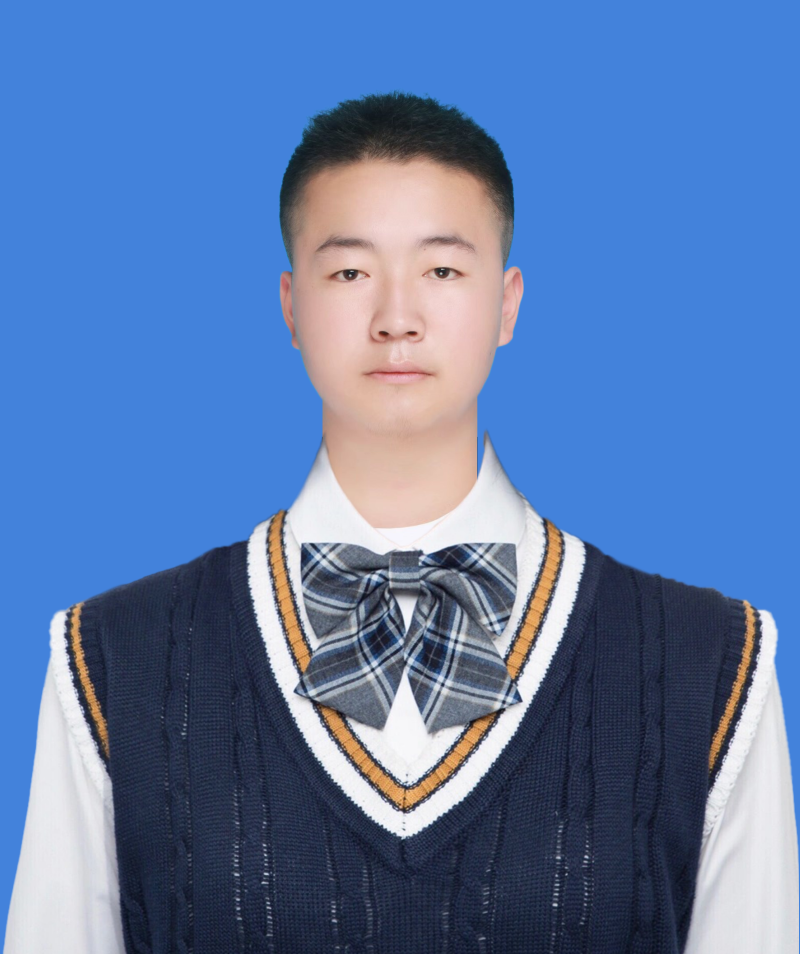
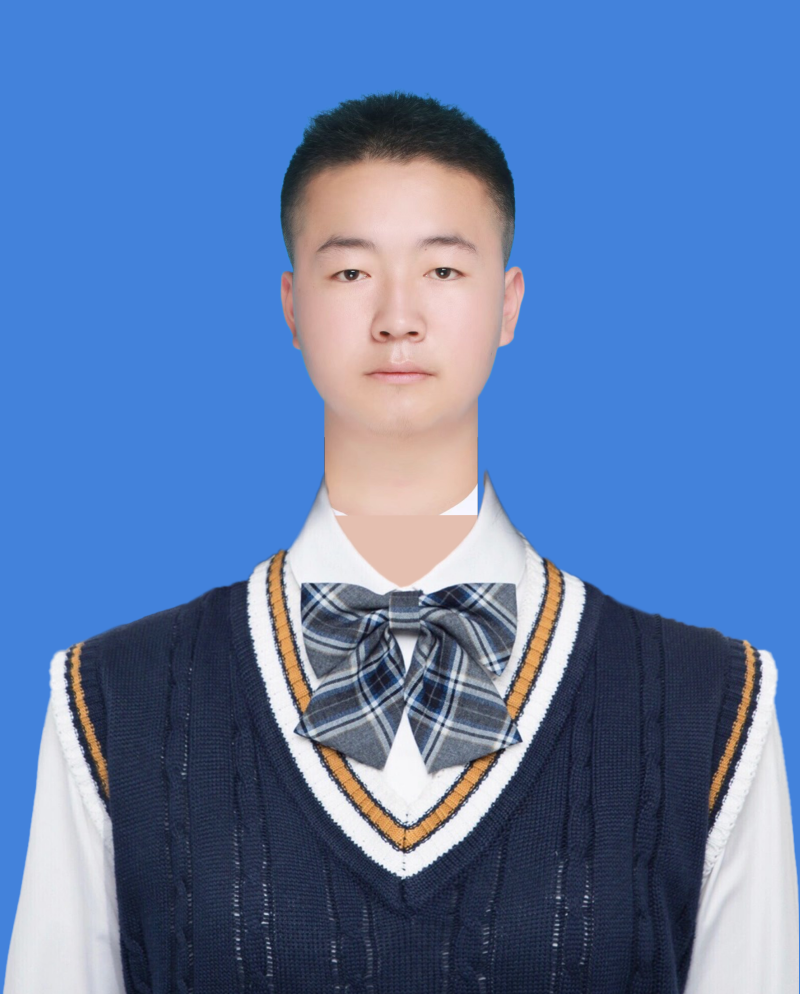
make_ids: \u8131\u5b50\u5ef6\u957f + \u9632\u6b62\u539f\u56fe T \u6064\u8863\u9886\u6cc4\u9732
\u7528\u6237\u8981\u6c42\u8131\u5b50\u53ef\u89c1\u90e8\u5206\u66f4\u957f\uff0c\u5728\u4e0d\u5f71\u54cd\u73b0\u6709\u6548\u679c\u7684\u57fa\u7840\u4e0a\u3002

\u51e0\u4f55\u53c2\u6570\u8c03\u6574\uff1a
  NECK_VISIBLE_TO_JAW_RATIO  0.70 \u2192 0.95   (\u8131\u5b50\u53ef\u89c1\u9ad8\u5ea6\u591a 36%)
  NECK_DEPTH_FRAC            1.10 \u2192 1.50   (polygon \u540c\u6b65\u52a0\u957f\uff0c\u7ed9\u8863\u9886\u906e\u4f4f\u9884\u7559 buffer)
  NECK_DRAWING_PAD_FACTOR    1.5  \u2192 2.0    (\u9876\u90e8 padding \u4fdd\u8bc1\u8131\u5b50\u753b\u5e03\u7a7a\u95f4\u8db3)

\u65b0\u589e CLI \u53c2\u6570 --neck-visible \u8ba9\u7528\u6237\u80fd\u8fd0\u884c\u65f6\u8c03\uff1a
  python3 make_ids.py ... --neck-visible 1.20    (\u8131\u5b50\u66f4\u957f)
  python3 make_ids.py ... --neck-visible 0.60    (\u8131\u5b50\u66f4\u77ed)

\u91cd\u70b9\u4fee\u590d\uff1a\u9632\u6b62\u539f\u56fe T \u6064/\u8863\u9886\u6cc4\u9732
  \u95ee\u9898\uff1aimagev3 \u4e2d\u8131\u5b50\u53ea\u4ece chin \u5230 chin+0.5\u00d7jaw_span\u662f\u771f\u5b9e\u8131\u5b50\uff0c
  \u4e4b\u540e\u662f T \u6064\u8863\u9886\u3002visible_ratio=0.95 \u8ba9 polygon \u8986\u76d6\u5230 chin+1.05\u00d7jaw_span\uff0c
  warp \u4f1a\u628a T \u6064\u4e2d\u7684\u767d\u8272\u5e26\u5230 head \u4e0a\uff0cV \u9886\u5f00\u53e3\u4e0b\u770b\u5230\u6dfa\u8272\u5757\u3002

  \u4fee\u590d\uff1a\u65b0\u589e _flatten_source_neck_below()
  \u5728 affine warp \u4e4b\u524d\uff0c\u5148\u628a source \u56fe\u4e2d chin+0.50\u00d7source_jaw_span \u4ee5\u4e0b
[…]

diff --git a/neck/make_ids.py b/neck/make_ids.py
@@ -37,14 +37,14 @@ class MakeIDPhoto:
     # ============ 脖子几何参数（经验值）============
     NECK_TOP_INSET = 0.95        # 脖子顶宽 / 下颌宽（接近 1 = 几乎=下颌宽）
     NECK_BOTTOM_FLARE = 1.0      # 脖子底宽 / 顶宽（不外扩）
-    NECK_DEPTH_FRAC = 1.10       # 脖子高度 = jaw_span × 此值
+    NECK_DEPTH_FRAC = 1.50       # 脖子 polygon 高度 = jaw_span × 此值（要 ≥ visible+buffer）
     CHIN_OVERLAP_FRAC = 0.06     # 脖子上沿向上插入下巴的距离 / jaw_span
-    NECK_DRAWING_PAD_FACTOR = 1.5  # 加脖子前底部预留 padding = jaw_span × 此值
+    NECK_DRAWING_PAD_FACTOR = 2.0  # 加脖子前底部预留 padding = jaw_span × 此值（≥ NECK_DEPTH_FRAC）
 
     # ============ 衣服 / 画布几何参数（经验值）============
     HEAD_JAW_TO_CANVAS_RATIO = 0.20   # canvas 上 scaled_jaw_span / canvas_w
     HEAD_TOP_MARGIN_RATIO = 0.11      # 头顶 margin / canvas_w
-    NECK_VISIBLE_TO_JAW_RATIO = 0.70  # 脖子可见高度 / scaled_jaw_span
+    NECK_VISIBLE_TO_JAW_RATIO = 0.95  # 脖子可见高度 / scaled_jaw_span（0.70→0.95 让脖子更长）
     CLOTHES_VNECK_X_FRAC = 0.50       # 衣服 V 领 fallback x 位置 / clothes_w
     CLOTHES_VNECK_Y_FRAC = 0.18       # 衣服 V 领 fallback y 位置 / clothes_h
 
@@ -64,6 +64,7 @@ class MakeIDPhoto:
         clothes_path: str,
         output_path: str,
         bg_hex: str = DEFAULT_BG_HEX,
+        neck_visible_ratio: Optional[float] = None,
     ):
         """
         :param head_path: 抠图头像路径（RGBA PNG，背景透明）
@@ -71,12 +72,18 @@ class MakeIDPhoto:
         :param clothes_path: 衣服模板路径（RGBA PNG，衣服外背景透明）
         :param output_path: 输出证件照路径
         :param bg_hex: 16 进制底色，支持 '#RGB' / '#RRGGBB' / 'RRGGBB' / '0xRRGGBB'
+        :param neck_visible_ratio: 脖子可见高度 / scaled_jaw_span，覆盖默认值 0.95；
+            想脖子更长传 1.10~1.30，更短传 0.60~0.80。None=用默认。
         """
         self.head_path = head_path
         self.source_path = source_path
         self.clothes_path = clothes_path
         self.output_path = output_path
         self.bg_bgr = self._hex_to_bgr(bg_hex)
+        if neck_visible_ratio is not None:
+            self.neck_visible_ratio = float(np.clip(neck_visible_ratio, 0.30, 1.80))
+        else:
+            self.neck_visible_ratio = self.NECK_VISIBLE_TO_JAW_RATIO
 
     # =================================================================================
     # 主流程
@@ -117,6 +124,53 @@ class MakeIDPhoto:
     # 核心方法 1：加脖子（affine warp 原图脖子像素到头像坐标系）
     # =================================================================================
 
+    # 在 warp 前要把 source 真实脖子之下（衣领 / T 恤等非肤色区）替换为脖子 mean 色，
+    # 避免 transplant 把白衣领等非脖子内容拷到头像上。
+    SOURCE_REAL_NECK_TOP_FRAC = 0.10   # 真实脖子起始 y = source_chin + 0.10 × source_jaw_span
+    SOURCE_REAL_NECK_BOT_FRAC = 0.45   # 真实脖子结束 y = source_chin + 0.45 × source_jaw_span
+    SOURCE_REAL_NECK_HALF_W_FRAC = 0.18  # 真实脖子半宽（两侧避开下颌阴影 / 衣领边缘）
+    SOURCE_NECK_MEAN_CUTOFF_FRAC = 0.50  # 在 source_chin + 0.50 × source_jaw_span 之下用脖子 mean 色填充
+
+    @classmethod
+    def _flatten_source_neck_below(cls, source_bgra: np.ndarray, source_face) -> np.ndarray:
+        """
+        把 source 图中「真实脖子区域之下」的所有内容替换为脖子 mean BGR。
+        这样后续 warp 时 polygon 下半段仍是脖子色，不会带进 T 恤 / 衣领等非肤色内容。
+        """
+        h, w = source_bgra.shape[:2]
+        lm = source_face.landmark
+        chin = cls._landmark_xy(lm[cls.LANDMARK_CHIN], w, h)
+        jl = cls._landmark_xy(lm[cls.LANDMARK_LEFT_JAW], w, h)
+        jr = cls._landmark_xy(lm[cls.LANDMARK_RIGHT_JAW], w, h)
+        jaw_span = float(np.hypot(jl[0] - jr[0], jl[1] - jr[1]))
+        if jaw_span < 12.0:
+            return source_bgra
+
+        # 真实脖子 ROI（取真实脖子核心区中位 BGR）
+        y_top = int(np.clip(chin[1] + jaw_span * cls.SOURCE_REAL_NECK_TOP_FRAC, 0, h))
+        y_bot = int(np.clip(chin[1] + jaw_span * cls.SOURCE_REAL_NECK_BOT_FRAC, 0, h))
+        half_w = int(jaw_span * cls.SOURCE_REAL_NECK_HALF_W_FRAC)
+        x_lo = int(np.clip(chin[0] - half_w, 0, w))
+        x_hi = int(np.clip(chin[0] + half_w, 0, w))
+        if y_bot <= y_top + 4 or x_hi <= x_lo + 4:
+            return source_bgra
+        roi = source_bgra[y_top:y_bot, x_lo:x_hi]
+        am = roi[:, :, 3] > 40
+        if not np.any(am):
+            return source_bgra
+        # 用 alpha>40 像素的 BGR 中位数作为脖子色
+        neck_mean = np.median(roi[:, :, :3][am], axis=0).astype(np.uint8)
+
+        # 在 chin + 0.50 × jaw_span 以下区域全部替换为脖子 mean BGR
+        out = source_bgra.copy()
+        cutoff_y = int(np.clip(chin[1] + jaw_span * cls.SOURCE_NECK_MEAN_CUTOFF_FRAC, 0, h))
+        if cutoff_y < h:
+            # 只动 BGR 通道，alpha 保持原样
+            out[cutoff_y:, :, 0] = int(neck_mean[0])
+            out[cutoff_y:, :, 1] = int(neck_mean[1])
+            out[cutoff_y:, :, 2] = int(neck_mean[2])
+        return out
+
     def _add_neck(
         self,
         head_bgra: np.ndarray,
@@ -126,13 +180,18 @@ class MakeIDPhoto:
     ) -> np.ndarray:
         """
         在头像下方加真实脖子：
+          0. 把 source 图中真实脖子之下的非肤色区域（T 恤 / 衣领等）替换为脖子 mean 色
+             —— 避免 warp 后把这些内容带到头像上
           1. 头像和原图各自检测的下颌三点构造 affine 变换
-          2. 把原图整体 warp 到头像坐标系
+          2. 把（处理过的）原图整体 warp 到头像坐标系
           3. 构造梯形脖子 polygon，在 polygon 内**用 warped 像素覆盖头像 BGR**
           4. polygon 内 alpha 强制满（与原 head alpha 取 max）
 
         polygon 边缘用 AA mask 0-255 灰度做软过渡，无可见接缝。
         """
+        # 0. 预处理 source：脖子之下用脖子 mean 色填充
+        source_bgra = self._flatten_source_neck_below(source_bgra, source_face)
+
         h, w = head_bgra.shape[:2]
         sH, sW = source_bgra.shape[:2]
 
@@ -310,7 +369,7 @@ class MakeIDPhoto:
         chin_y_in_canvas = head_paste_y + scaled_chin_y
 
         # 衣服 V 领位置：chin 下方 scaled_jaw × NECK_VISIBLE_TO_JAW_RATIO
-        neck_visible_h = int(round(scaled_jaw * self.NECK_VISIBLE_TO_JAW_RATIO))
+        neck_visible_h = int(round(scaled_jaw * self.neck_visible_ratio))
         target_vneck_y = chin_y_in_canvas + neck_visible_h
         target_vneck_x = canvas_w // 2
 
@@ -507,6 +566,11 @@ def main(argv: Optional[list] = None) -> int:
         "--bg", default=MakeIDPhoto.DEFAULT_BG_HEX,
         help=f"16 进制底色，默认 {MakeIDPhoto.DEFAULT_BG_HEX}（标准证件照蓝）",
     )
+    parser.add_argument(
+        "--neck-visible", type=float, default=None,
+        help=f"脖子可见高度 / scaled_jaw_span，默认 {MakeIDPhoto.NECK_VISIBLE_TO_JAW_RATIO}。"
+        "调大让脖子更长（如 1.20），调小更短（如 0.70）",
+    )
     args = parser.parse_args(argv)
 
     try:
@@ -516,6 +580,7 @@ def main(argv: Optional[list] = None) -> int:
             clothes_path=os.path.abspath(args.clothes),
             output_path=os.path.abspath(args.output),
             bg_hex=args.bg,
+            neck_visible_ratio=args.neck_visible,
         )
         return job.run()
     except Exception as e:
